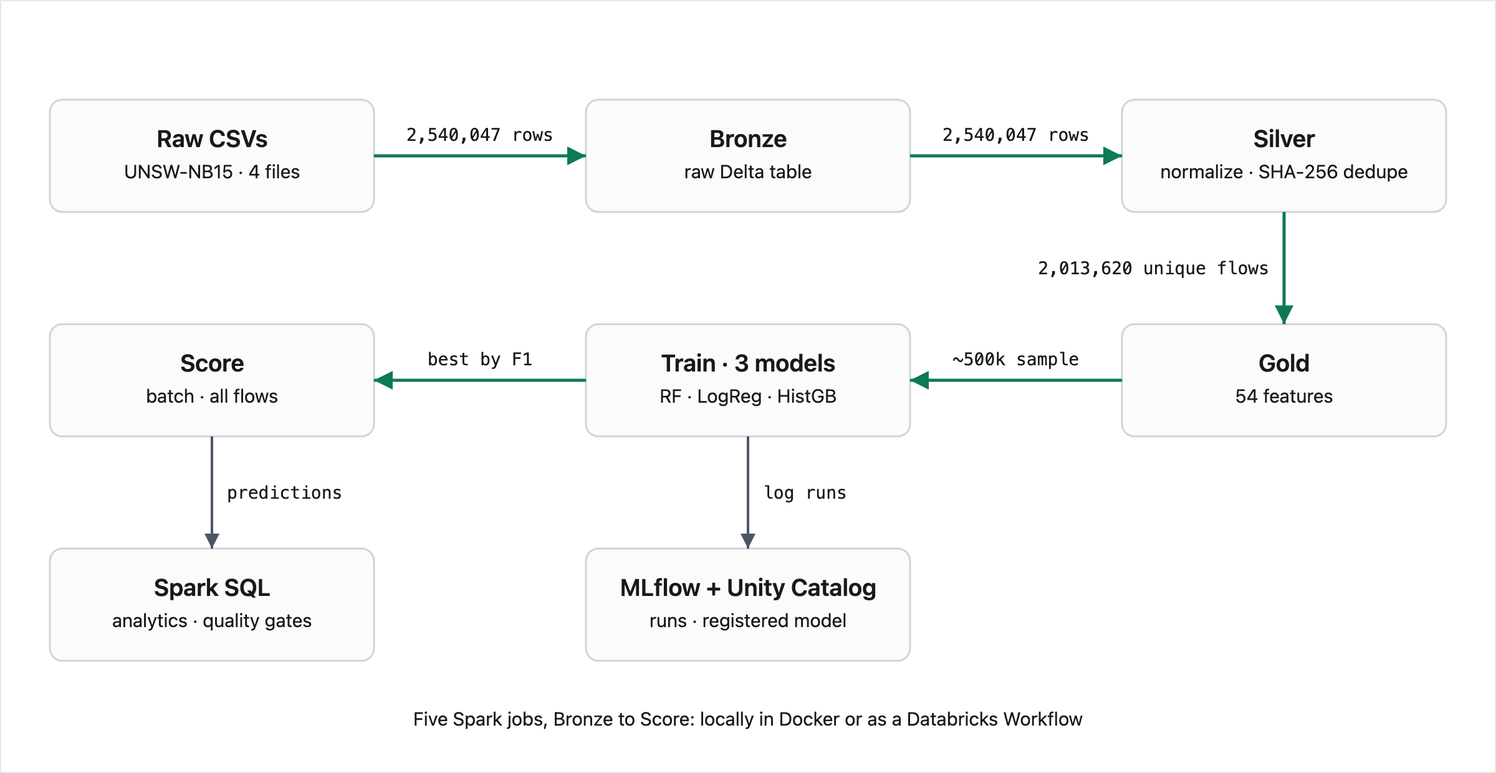
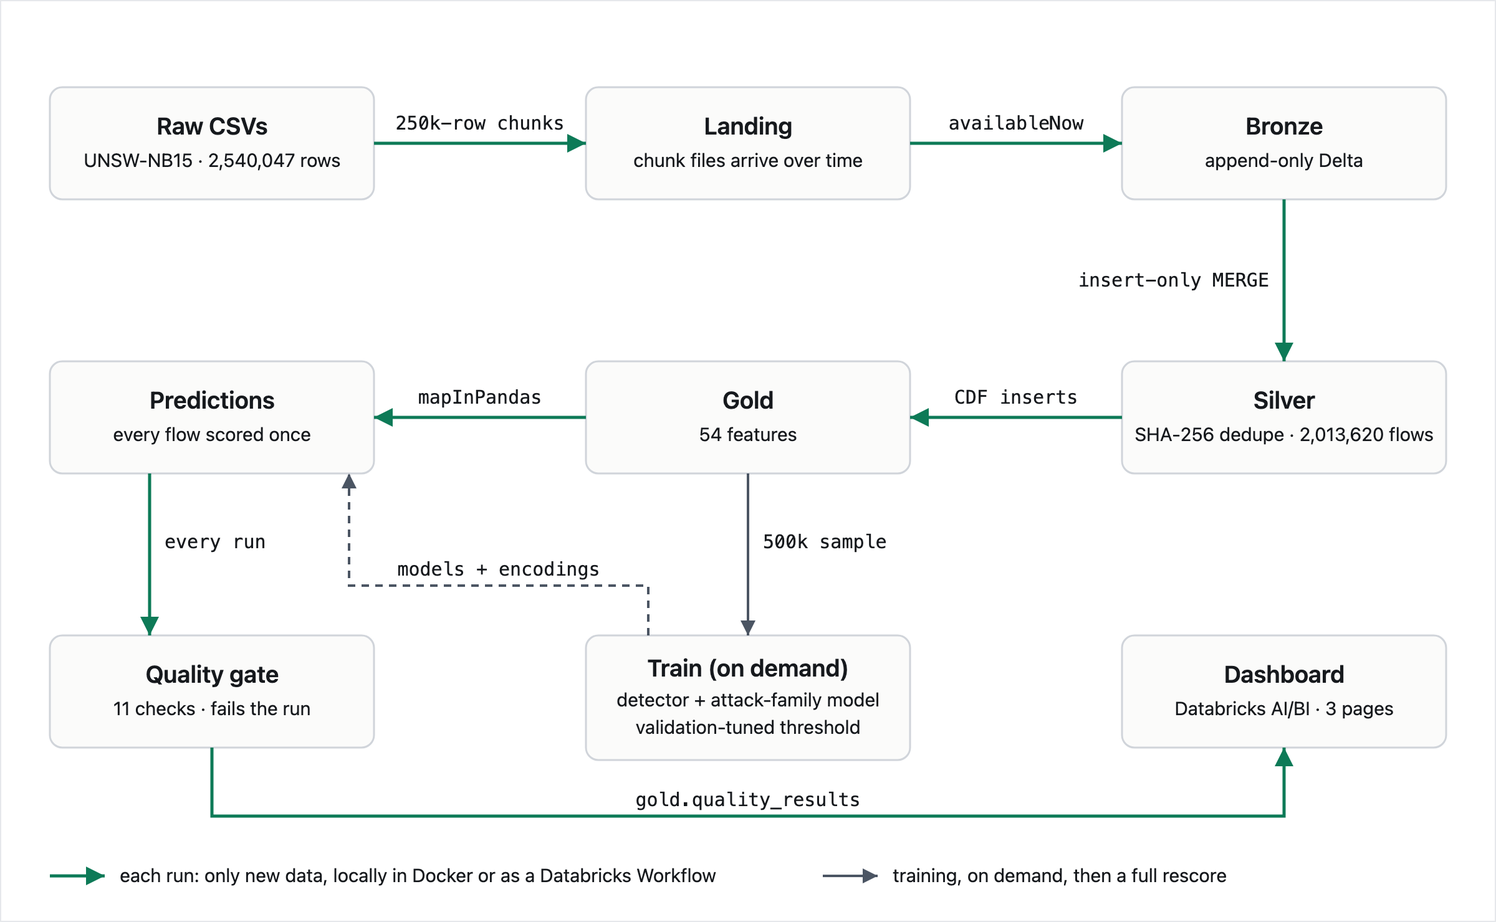
content: Cyber Lakehouse update post and refreshed project page
New post "What I changed in my Cyber Threat Lakehouse, and why" covering
the Oct 12-14 work: incremental streaming ingestion with insert-only MERGE
and Change Data Feed, the validation-tuned threshold, the attack-family
model, the persisted quality gate, the dashboard as code, and the
CIC-IDS2017 cross-dataset test. Four code excerpts, checked line by line
against the repo.

The project page is rewritten for the current pipeline and numbers, with a
redrawn diagram, a dashboard cover, and tech tags for scikit-learn, MLflow
and Docker. Adds a transfer-gap chart and two dashboard screenshots. Facts
checked against the repo's README, ADRs and reports.

diff --git a/content/posts/cyber-lakehouse-updates.md b/content/posts/cyber-lakehouse-updates.md
@@ -1,0 +1,201 @@
+---
+title: What I changed in my Cyber Threat Lakehouse, and why
+slug: cyber-lakehouse-updates
+excerpt: I rebuilt my network intrusion pipeline to be incremental, made its evaluation honest, added a quality gate and a dashboard, then tested it on another lab's traffic, where it fell apart.
+tags: [data-engineering, machine-learning, databricks, delta-lake, security]
+published_at: "2026-10-24"
+---
+
+[Cyber Threat Lakehouse](/projects/cyber-threat-lakehouse) is my data engineering and machine learning project. It takes the full UNSW-NB15 dataset, 2,540,047 network flow records, through Bronze, Silver and Gold layers in Spark and Delta Lake, and trains a model that flags malicious traffic. It runs locally in Docker and on Databricks.
+
+The version I finished in August worked, but I kept finding things I couldn't defend. Every run rebuilt every table from scratch. The alert threshold was a default nobody chose, and I picked the best model by its test score, which makes the test score optimistic. The data-quality checks were a SQL file I ran by hand. And nothing said whether the model would work on any network other than the one it learned from.
+
+Between October 12 and 14, I fixed all of that. Here is each change and the reason behind it. The reasons are also written up as decision records in the repo, 12 of them for these changes.
+
+![The project's Databricks dashboard: 2.01 million flows analyzed, 94,913 alerts raised, and alerts per hour by attack family for both capture sessions](IMAGE:lakehouse-dashboard.jpg)
+
+The dashboard's numbers come from the Databricks run, which trains on a smaller sample than the local run; more on that in section 5.
+
+## 1. Process only what's new
+
+Rebuilding every layer on each run reprocesses 2.5 million rows to add a few, and it hides problems like late or re-delivered files. Real network logs arrive over time, so the pipeline should too.
+
+A replay script now releases the raw data as 250,000-row chunk files into a landing folder, as if logs were arriving. Each layer is a checkpointed Spark stream with an `availableNow` trigger: it processes everything new since its last run, then stops. That trigger is also the only one Databricks serverless supports, so the same code runs in both places. Locally in Docker, a rerun with no new files takes 9 to 28 seconds per job and changes nothing.
+
+![The Cyber Threat Lakehouse pipeline: chunk files land over time, stream into Bronze, are deduplicated into Silver with an insert-only MERGE, flow into Gold and Predictions through Change Data Feed, then a quality gate writes results that a Databricks dashboard reads; training runs on demand and supplies the models](DIAGRAM:cyber-threat-lakehouse.png)
+
+The interesting part is what happens when the same data shows up twice. Bronze keeps everything it receives. From Silver down, every write is an insert-only Delta MERGE on a SHA-256 hash of each flow's identity: a flow is added only if its hash isn't there yet. From `src/utils/incremental.py`:
+
+```python
+def first_per_key(
+    df: DataFrame,
+    key: str = "flow_hash",
+    order_cols: tuple[str, ...] = ("ingest_ts", "source_file"),
+) -> DataFrame:
+    """Keep one row per key: the earliest by order_cols. Needed before an
+    insert-only MERGE, which would otherwise insert in-batch duplicates."""
+    w = Window.partitionBy(key).orderBy(*[F.col(c).asc() for c in order_cols])
+    return df.withColumn("_rn", F.row_number().over(w)).filter(F.col("_rn") == 1).drop("_rn")
+
+
+def insert_new_keys(
+    spark: SparkSession,
+    batch_df: DataFrame,
+    key: str = "flow_hash",
+    *,
+    path: str | None = None,
+    name: str | None = None,
+) -> None:
+    """MERGE batch_df into the target, inserting only keys it doesn't hold yet.
+    batch_df must already be unique on key (see first_per_key)."""
+    target = ensure_delta_table(spark, batch_df.schema, path=path, name=name)
+    (
+        target.alias("t")
+        .merge(batch_df.alias("s"), f"t.{key} = s.{key}")
+        .whenNotMatchedInsertAll()
+        .execute()
+    )
+```
+
+I chose "first seen wins" over "latest wins" on purpose. Updating a row whenever a newer copy arrives would ripple rewrites through Gold and Predictions for no new information. With insert-only, a re-delivered file causes zero writes below Bronze. Gold and Predictions then read Silver's and Gold's Change Data Feed and keep only inserted rows, so each layer processes exactly what's new upstream.
+
+I don't take idempotency on faith. `scripts/verify_incremental.sh` runs the pipeline in Docker and fails on any mismatch: a rerun with nothing new must change nothing, a chunk re-delivered under a new name must add nothing past Bronze, and after training every flow must be scored exactly once. On Databricks the counts reconcile too: Bronze has 2,540,047 rows, Silver, Gold and Predictions each have 2,013,620, and no flow hash appears twice.
+
+Two problems only showed up once the pipeline was incremental:
+
+- **Encodings that drifted.** Three categorical fields are encoded by how often each value appears. Computed per micro-batch, the same value would get a different number in every batch, and the model would see inputs it was never trained on. The encodings are now computed once at training, saved, and reused at scoring.
+- **Running out of memory.** My laptop has 8 GB of RAM, and the Docker VM gets about 3.8 GB of it. The first full incremental run in Docker read all of Bronze into Silver in one batch (410 seconds) and all of Silver into Gold in another (1,128 seconds), and a full rescore was killed for running out of memory. Capping each batch at 128 MB brought Silver to 153 seconds and Gold to 135, and the rescore ran in 136 seconds. When the attack-family model (section 3) doubled what each scoring worker holds, it ran out of memory again, so scoring now uses 2 partitions: a full rescore of 2,013,620 flows with both models takes 265 seconds, with a peak of 2.69 GB.
+
+## 2. Choose on validation, report on test
+
+The August version used a random forest that alerted at the default probability of 0.5. That caught 99.2% of attacks, but its precision was 0.766, so about 1 in 4 alerts was a false alarm. And because I picked the model by its test score, the test score was no longer an honest estimate.
+
+Now a stratified sample of about 500,000 flows is split 60/20/20 into train, validation and test sets, stratified by attack family. Every choice is made on validation. A security team would rather miss few attacks and then cut false alarms, so each model's alert threshold is the most precise one that still catches at least 95% of validation attacks. From `src/utils/modeling.py`:
+
+```python
+# SOC operating point: catch at least this share of attacks, then cut false alarms.
+TARGET_RECALL = 0.95
+
+
+def choose_threshold(y_true, proba, target_recall: float = TARGET_RECALL) -> dict:
+    """Highest-precision threshold whose recall is >= target_recall (ties go to
+    higher recall). A flow is an attack when proba >= threshold."""
+    precision, recall, thresholds = precision_recall_curve(y_true, proba)
+    # The curve's last point (recall 0) has no threshold.
+    precision, recall = precision[:-1], recall[:-1]
+    candidates = np.flatnonzero(recall >= target_recall)
+    best = max(candidates, key=lambda i: (precision[i], recall[i]))
+    return {
+        "threshold": float(thresholds[best]),
+        "precision": float(precision[best]),
+        "recall": float(recall[best]),
+    }
+```
+
+The kept model is the one with the best validation precision at that floor, and the test set is used once, to report:
+
+| Model | Threshold | Precision | Recall | F1 | ROC-AUC |
+|---|---|---|---|---|---|
+| **Histogram gradient boosting** (kept) | 0.912 | **0.839** | 0.945 | **0.889** | 0.9988 |
+| Random forest | 0.766 | 0.817 | 0.955 | 0.880 | 0.9985 |
+| Logistic regression | 0.948 | 0.769 | 0.950 | 0.850 | 0.9964 |
+
+Compared with that August random forest, false alarms drop from about 1 in 4 alerts to about 1 in 6, and F1 rises from 0.865 to 0.889. That comparison also changes the model and the split, so here is the threshold alone: the kept model scores an F1 of 0.855 at 0.5 and 0.889 at its tuned threshold. The cost is real: the model now misses about 5.5% of attacks instead of about 1%, and it trains on 60% of the sample instead of 80%.
+
+## 3. Name the attack, not just flag it
+
+"Something's wrong" is less useful to an analyst than "this looks like reconnaissance." A second model now labels each flow as normal or one of the 9 attack families. I kept it separate from the detector so the detector keeps its tuned threshold.
+
+In the local run a random forest won. Its test accuracy is 0.980, but that number is mostly the normal traffic. Macro-F1, which weights every family equally, is 0.585 (on Databricks a gradient-boosting model won, at 0.648), and the per-family results show where it struggles. It mislabels 1,245 benign flows as fuzzers, it labels about half of the DoS flows as exploits (a known overlap in this dataset), and with only 7 worm flows in the test set it catches none of them.
+
+## 4. A quality gate that can stop a run
+
+The checks used to be a SQL file I ran by hand. Nothing recorded the results, nothing stopped a bad run, and the file only knew local paths. Now 11 checks are defined as data in `src/utils/quality.py`, each a query that counts violations:
+
+```python
+CHECKS = [
+    Check(
+        "null_label",
+        "silver",
+        "label_int is null",
+        "SELECT COUNT(*) FROM {silver} WHERE label_int IS NULL",
+        ("silver",),
+    ),
+    # ... 10 more: duplicate flow hashes, an attack share outside 2-25%,
+    # probabilities outside [0, 1], unscored flows, flows scored twice
+]
+```
+
+A job runs them after every pipeline run, appends one row per check to `gold.quality_results` so the history is kept, and then fails the run if any check failed:
+
+```python
+# Quality gate: results are saved first, then a failure fails the job.
+if failed:
+    raise SystemExit(f"[FAIL] {len(failed)} data-quality check(s) failed: {failed}")
+```
+
+I looked at Great Expectations and at Databricks' declarative pipeline expectations. The first is more dependency and configuration than 11 checks need. The second would mean rewriting the pipeline in Databricks' declarative style, and it doesn't run locally.
+
+## 5. A dashboard, kept as code
+
+The Databricks AI/BI dashboard has three pages: threat overview, model quality and pipeline health. It's 16 SQL datasets and 27 widgets in a JSON file in the repo, so it can be reviewed and rebuilt instead of living only in a UI.
+
+One rule shaped it: model quality comes only from the saved test-split metrics. Comparing predictions with labels across all 2 million flows would include the flows the model trained on, and the numbers would look better than they are.
+
+![The dashboard's model quality page: the tuned alert threshold, test precision and recall, and every candidate model's validation and test metrics](IMAGE:lakehouse-model-quality.jpg)
+
+This screenshot is from the Databricks run, which trains on a 300,000-flow sample, so its numbers differ slightly from the local run above: threshold 0.880, precision 0.824, recall 0.953, F1 0.884. On that run the 95% recall floor held on the test set (0.953). In the local run, test recall came in at 0.945, just under it.
+
+The pipeline health page also reconciles exactly. Its per-batch duplicate counts sum to 526,427, which is 2,540,047 raw rows minus 2,013,620 unique flows.
+
+## 6. Does it work on someone else's network?
+
+An F1 of 0.889 on UNSW-NB15 says nothing about traffic from another network, so I tested it on CIC-IDS2017, which comes from a different lab, with different attacks and a different flow tool.
+
+Only 7 measurements mean the same thing in both datasets: duration, plus bytes, packets and the mean time between packets in each direction. CIC records them in different units and leaves headers out of its byte counts, so they're converted first. From `src/utils/cross_dataset.py`:
+
+```python
+def cic_to_core(df: pd.DataFrame) -> pd.DataFrame:
+    """CIC rows -> CORE_COLS + label + is_attack, in UNSW units. Rows with a
+    negative duration or any non-finite core value are dropped; negative
+    header lengths (a known CICFlowMeter artifact) are clipped to 0."""
+    out = pd.DataFrame(
+        {
+            "dur": df[" Flow Duration"] / 1e6,
+            "sbytes": df["Total Length of Fwd Packets"] + df[" Fwd Header Length"].clip(lower=0),
+            "dbytes": df[" Total Length of Bwd Packets"] + df[" Bwd Header Length"].clip(lower=0),
+            "spkts": df[" Total Fwd Packets"],
+            "dpkts": df[" Total Backward Packets"],
+            "sintpkt": df[" Fwd IAT Mean"] / 1000,
+            "dintpkt": df[" Bwd IAT Mean"] / 1000,
+        }
+    )
+    # ... drop invalid rows, then add the label and is_attack columns
+```
+
+The detector is retrained on UNSW using only those 7 measurements plus 12 features derived from them, 19 in total, with the same split and threshold rule. Then it's scored on CIC:
+
+| Model | Tested on | Precision | Recall | F1 | ROC-AUC |
+|---|---|---|---|---|---|
+| UNSW, all 54 features | UNSW | 0.839 | 0.945 | 0.889 | 0.999 |
+| UNSW, 19 portable features | UNSW | 0.787 | 0.949 | 0.861 | 0.998 |
+| **UNSW, 19 features, on CIC** | CIC | **0.026** | **0.032** | **0.028** | **0.470** |
+| CIC-trained, same 19 features | CIC | 0.999 | 0.956 | 0.977 | 1.000 |
+
+Precision isn't comparable across the two datasets, because attacks are about 4% of UNSW's test split and 16.5% of CIC's. ROC-AUC is the fairer comparison.
+![F1 and ROC-AUC for each train and test pair: the UNSW detector scores near 0.9 F1 on UNSW, collapses to 0.028 F1 and 0.470 ROC-AUC on CIC-IDS2017, while a model trained on CIC reaches 0.977](IMAGE:lakehouse-transfer-gap.png)
+
+**It doesn't transfer.** On CIC it catches 3% of attacks, flags 24% of benign flows, and ranks flows slightly worse than random. No threshold fixes it: none catches 95% of CIC attacks above 19% precision. The features aren't the problem either, since dropping to 19 costs only 0.03 F1 on UNSW, and a model trained on CIC with the same 19 reaches 0.977. What the UNSW model learned is specific to UNSW:
+
+- **CIC's normal traffic looks like UNSW's attacks.** The median benign CIC flow is 2 packets and 140 bytes, mostly short DNS-style exchanges. The median benign UNSW flow is 16 to 18 packets and about 2 KB, while UNSW's "generic" attacks have a median of 2 packets and 114 bytes. Short and small reads as an attack.
+- **CIC's attacks look like nothing UNSW calls an attack.** CIC's DoS flows are long, slow connections, with medians of 60 to 100 seconds, and most UNSW attacks finish in under a second.
+
+So the 0.889 is a within-dataset number, and a detector like this has to be retrained or fine-tuned on traffic from the network it protects. This result changes how every other number in this post should be read.
+
+## What I took from it
+
+- **Test idempotency, don't assume it.** The verification script is what lets me say reruns and re-deliveries are safe.
+- **Choose on validation, report on test.** Every number in a results table should come from data that never influenced a choice.
+- **A good score on one dataset is not a deployment score.** The cross-dataset test is what tells you how far the in-dataset numbers can be trusted.
+
+Everything is in the repo, including all 21 decision records, the architecture and data model docs, and an operations runbook: [github.com/chrisguzman77/cyber-lakehouse](https://github.com/chrisguzman77/cyber-lakehouse). If you have questions, or you're hiring, [get in touch](/contact).

diff --git a/content/projects/cyber-threat-lakehouse.md b/content/projects/cyber-threat-lakehouse.md
@@ -1,49 +1,53 @@
 ---
 slug: cyber-threat-lakehouse
 title: Cyber Threat Lakehouse
-summary: Spark and Delta Lake pipeline over 2.5M network flow records with Bronze/Silver/Gold layers, 54 engineered features, and a three-model detection benchmark, run locally and on Databricks.
+summary: Incremental Spark and Delta Lake pipeline over 2.5M network flows, with a validation-tuned intrusion detector, an attack-family model, a data-quality gate, a Databricks dashboard, and a cross-dataset test of whether it generalizes.
 repo_url: https://github.com/chrisguzman77/cyber-lakehouse
 live_url: null
 award: null
-date: 2026-02-01
-tech: [python, apache spark, delta lake, databricks, sql]
+date: 2026-10-14
+tech: [python, apache spark, delta lake, databricks, sql, scikit-learn, mlflow, docker]
+cover: IMAGE:lakehouse-dashboard.jpg
 ---
 
 ## What it is
 
-A lakehouse pipeline that turns the full UNSW-NB15 dataset (2,540,047 network flow records) into a model that flags malicious traffic. UNSW-NB15 mixes real benign traffic with nine synthetic attack families, such as exploits, DoS, reconnaissance and worms. I wanted to show both halves: multi-million-row data engineering, and honest evaluation on imbalanced data. I built it to practice the data-engineering and ML side of security work. The surprise was the dedupe: the raw data is about 13% attacks, but attack flows are heavily duplicated, so after deduplication only about 4% are.
+A lakehouse pipeline that turns the full UNSW-NB15 dataset (2,540,047 network flow records) into a model that flags malicious traffic and names the attack type. UNSW-NB15 mixes real benign traffic with nine synthetic attack families, such as exploits, DoS, reconnaissance and worms. I built it to practice the data engineering and ML side of security work, and to show both halves: multi-million-row pipelines that are safe to rerun, and honest evaluation on imbalanced data. The surprise was the dedupe: the raw data is about 13% attacks, but attack flows are heavily duplicated, so after deduplication only about 4% are.
 
 ## How it works
 
-![Pipeline of the Cyber Threat Lakehouse: raw UNSW-NB15 CSVs flow through Bronze, Silver (dedupe to 2,013,620 unique flows) and Gold (54 features), then a ~500k sample trains three models, the best by F1 scores all flows, and results feed Spark SQL analytics and MLflow with Unity Catalog](DIAGRAM:cyber-threat-lakehouse.png)
+![The Cyber Threat Lakehouse pipeline: chunk files land over time, stream into Bronze, are deduplicated into Silver with an insert-only MERGE, flow into Gold and Predictions through Change Data Feed, then a quality gate writes results that a Databricks dashboard reads; training runs on demand and supplies the models](DIAGRAM:cyber-threat-lakehouse.png)
 
-The pipeline is five Spark jobs. They run locally in a Docker Spark container, or as a five-task Databricks Workflow.
+The pipeline is incremental. A replay script releases the raw data as 250,000-row chunk files over time, and each layer is a checkpointed Spark stream that processes only what's new, then stops. It runs locally in Docker, or on Databricks as two Workflows. On serverless compute, the pipeline takes 2 to 3 minutes per run, and training, which retrains and rescores every flow, takes about 4.5 minutes.
 
-**Bronze** loads the four raw CSVs into a Delta table with an explicit schema and ingest metadata. **Silver** normalizes labels and attack categories, fixes CSV quirks, and removes duplicate flows by hashing each flow's identity with SHA-256. That takes 2,540,047 rows down to 2,013,620 unique flows. **Gold** builds a 54-feature ML table: 38 raw flow fields, 13 derived features, and 3 frequency-encoded categorical fields (protocol, service, state).
+**Bronze** appends the raw rows to a Delta table with an explicit schema. **Silver** normalizes labels, fixes CSV quirks, and adds each flow only if the SHA-256 hash of its identity isn't there yet, using an insert-only MERGE. That takes 2,540,047 rows down to 2,013,620 unique flows. **Gold** reads Silver's Change Data Feed and builds a 54-feature table: 38 raw flow fields, 13 derived features and 3 frequency-encoded categorical fields. **Predictions** scores only new Gold rows with `mapInPandas`, so every flow is scored exactly once.
 
-**Train** draws a stratified sample of about 500k flows (80/20 split, fixed seed) and trains a random forest, logistic regression and a histogram gradient-boosting model. It keeps the best one by F1. On Databricks, each run is logged to MLflow and the best model is registered in Unity Catalog. **Score** runs that model over every flow and writes predictions to a Delta table.
+**Training** runs on demand. It splits a stratified sample of about 500,000 flows 60/20/20 into train, validation and test, and trains a random forest, logistic regression and histogram gradient boosting for two tasks: attack or benign, and which of the 9 attack families. On Databricks, every run is logged to MLflow and the best models are registered in Unity Catalog.
 
-Spark SQL then answers the analytics questions (attacks by category, most suspicious flows) and runs data-quality gates on each layer: null labels, negative durations, duplicate hashes, out-of-range probabilities. Every gate must return zero.
+After every run, **11 data-quality checks** append their results to `gold.quality_results`, and any failure fails the run. A three-page **Databricks AI/BI dashboard**, kept as code in the repo, shows alerts, model quality and pipeline health.
 
 ## Decisions worth noting
 
-- **One shared feature module.** The local jobs and the Databricks notebooks import the same feature code, so the two deployments can't drift apart.
-- **Explicit schema and hash-based dedupe.** No schema inference, and deduplication on a flow-identity hash. Dedupe removed about 20.7% of the raw rows, so every later count and metric is over unique flows.
-- **Batch scoring with `mapInPandas`.** The model loads once per worker and scores in chunks, so 2M+ rows never sit in a single pandas frame.
-- **F1 and ROC-AUC over accuracy.** Only about 4% of the deduplicated flows are attacks, so a model that calls everything benign would still score around 96% accuracy.
+- **Insert-only MERGE, first seen wins.** A re-delivered file writes nothing below Bronze, and a script verifies it: a rerun with nothing new changes nothing, and every flow is scored once.
+- **Threshold tuned on validation, not left at 0.5.** Each model alerts at the most precise threshold that still catches 95% of validation attacks, and the test split is used once, to report.
+- **Frozen encodings.** The frequency encodings are computed once at training and reused at scoring, so micro-batches can't encode the same value differently.
+- **Model quality from the test split only.** The dashboard never compares predictions with labels across all flows, which would include the training sample and overstate quality.
+- **One shared code base.** The local jobs and the Databricks notebooks import the same modules, so the two deployments can't drift apart. The reasoning behind every decision is in 21 decision records in the repo.
 
 ## Results
 
-From the local run on the ~500k sample (test set of 99,960 flows):
+From the local run (about 500,000 flows, 60/20/20 split):
 
-| Model | Precision | Recall | F1 | ROC-AUC | Train time |
+| Model | Threshold | Precision | Recall | F1 | ROC-AUC |
 |---|---|---|---|---|---|
-| Random forest (kept) | 0.768 | 0.991 | 0.865 | 0.9986 | 12.8 s |
-| Logistic regression | 0.735 | 0.999 | 0.847 | 0.9968 | 19.8 s |
-| Hist gradient boosting | 0.754 | 0.997 | 0.859 | 0.9988 | 3.9 s |
+| **Histogram gradient boosting** (kept) | 0.912 | **0.839** | 0.945 | **0.889** | 0.9988 |
+| Random forest | 0.766 | 0.817 | 0.955 | 0.880 | 0.9985 |
+| Logistic regression | 0.948 | 0.769 | 0.950 | 0.850 | 0.9964 |
 
-All three models catch almost every attack, and the random forest has the best F1. The trade-off is precision: nearly one in four flagged flows is benign. The full Databricks Workflow over the 2.54M-row dataset finishes in under 5 minutes on serverless compute, though the Databricks job trains on a smaller 300k-row sample than the 500k-row local run above, so the two runs are not equivalent.
+Compared with the August version, a random forest alerting at the default 0.5, false alarms fell from about 1 in 4 alerts to about 1 in 6, at the cost of missing about 5.5% of attacks instead of about 1%. The threshold alone takes the kept model from an F1 of 0.855 at 0.5 to 0.889. The attack-family model (a random forest, in the local run) reaches a test macro-F1 of 0.585. It is strong on generic and reconnaissance attacks and weak on the rarest families, with only 7 worm flows in the test set.
+
+The cross-dataset test is the honest limit. Retrained on the 19 features both datasets share and scored on CIC-IDS2017, traffic from another lab, the detector's F1 falls from 0.861 to **0.028** and its ROC-AUC to **0.470**, slightly worse than random. A model trained on CIC with the same features reaches 0.977, so the features aren't the problem: what the UNSW model learned doesn't carry over to another network. The 0.889 is a within-dataset number. The full story is in [What I changed in my Cyber Threat Lakehouse, and why](/blog/cyber-lakehouse-updates).
 
 ## My part
 
-This was a solo project. I built the pipeline, the feature engineering, the model benchmark, the data-quality gates, and both the Docker and Databricks deployments, with CI running lint and tests on every push.
+This was a solo project. I built the pipeline, the incremental ingestion, the feature engineering, the model benchmarks and evaluation protocol, the cross-dataset test, the quality gate, the dashboard, and both the Docker and Databricks deployments, with CI running lint and tests on every push.
